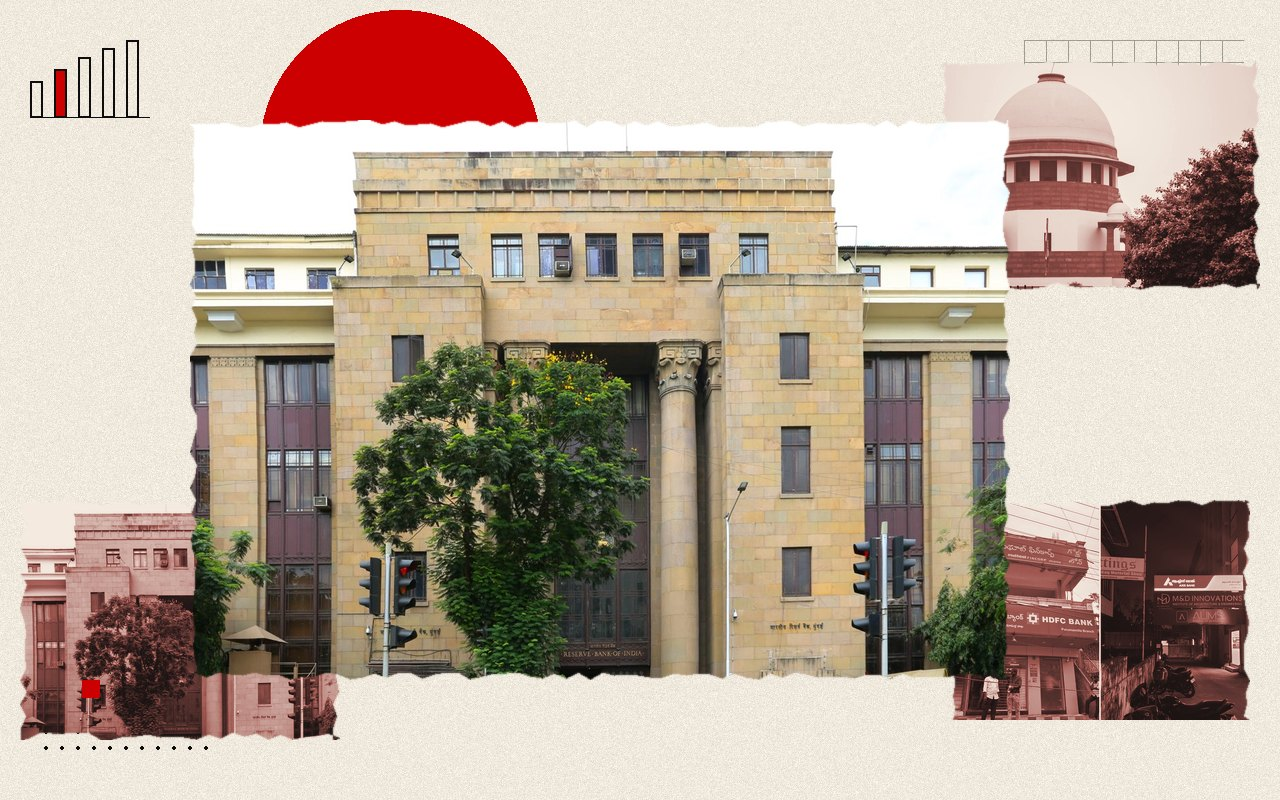
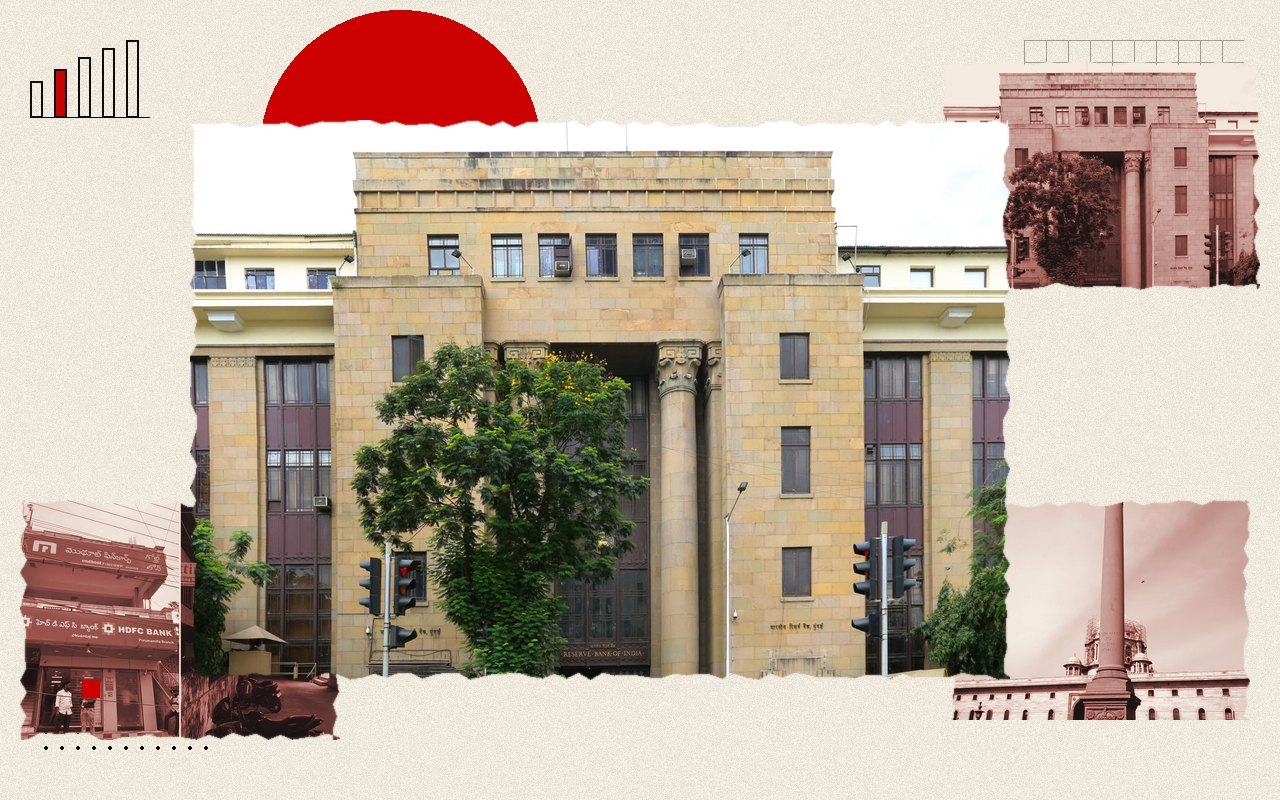
Hourly 17:00 IST: collage fix for the RBI stop switch story
The collage had a Supreme Court tile (from a related editorial) behind an RBI draft story. Dropped that editorial from the story's related list in both languages and remade the collage: RBI building, bank offices, North Block.

Claude-Session: https://claude.ai/code/session_01C3zerXNFe5BPtz1Ry6HfB6

diff --git a/content/hi/news/rbi-stop-switch-trusted-person-draft-digital-fraud.md b/content/hi/news/rbi-stop-switch-trusted-person-draft-digital-fraud.md
@@ -30,7 +30,7 @@ infographic:
     - {icon: clock, value: "1 घंटा", label: "भरोसेमंद व्यक्ति के पास फ्लैग किए गए ट्रांसफर को मंजूर करने का समय"}
     - {icon: calendar, value: "24 घंटे", label: "भरोसेमंद व्यक्ति की जांच शुरू होने से पहले की प्रतीक्षा अवधि"}
   source: "आरबीआई मसौदा निर्देश, 23 नवंबर 2026"
-related: [sc-digital-arrest-whatsapp-intermediaries-measures-november-23, digital-arrest-victims-should-be-repaid-by-the-bank-first, mobikwik-rbi-penalty-9-lakh-ppi-transfers-fraud-reporting]
+related: [sc-digital-arrest-whatsapp-intermediaries-measures-november-23, mobikwik-rbi-penalty-9-lakh-ppi-transfers-fraud-reporting]
 seo:
   title: "आरबीआई मसौदा: बैंक फ्रॉड पर स्टॉप स्विच, भरोसेमंद व्यक्ति"
   description: "आरबीआई के 23 नवंबर के मसौदे में ग्राहक सभी निकासी रोक सकेंगे, भुगतान चैनल बंद कर सकेंगे और भरोसेमंद व्यक्ति की जांच जोड़ सकेंगे। सुझाव 14 दिसंबर तक।"

diff --git a/content/en/news/rbi-stop-switch-trusted-person-draft-digital-fraud.md b/content/en/news/rbi-stop-switch-trusted-person-draft-digital-fraud.md
@@ -29,7 +29,7 @@ infographic:
     - {icon: clock, value: "1 hour", label: "for a trusted person to approve a flagged transfer"}
     - {icon: calendar, value: "24 hours", label: "cooling-off before the trusted-person check starts"}
   source: "RBI draft directions, November 23, 2026"
-related: [sc-digital-arrest-whatsapp-intermediaries-measures-november-23, digital-arrest-victims-should-be-repaid-by-the-bank-first, mobikwik-rbi-penalty-9-lakh-ppi-transfers-fraud-reporting]
+related: [sc-digital-arrest-whatsapp-intermediaries-measures-november-23, mobikwik-rbi-penalty-9-lakh-ppi-transfers-fraud-reporting]
 seo:
   title: "RBI draft: stop switch and trusted person for bank fraud"
   description: "The RBI's November 23 draft would let customers freeze all outgoing debits, switch off payment channels and add a trusted-person check. Comments close December 14."
